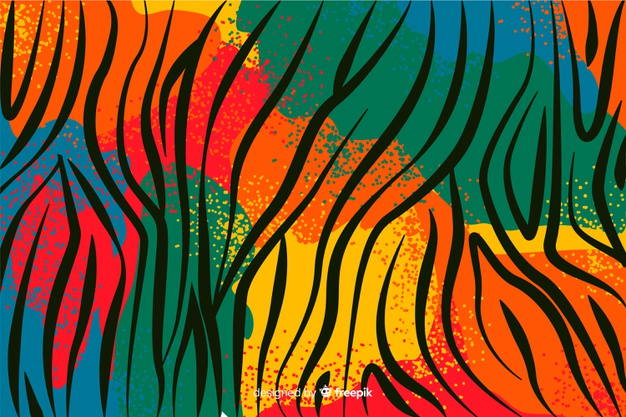
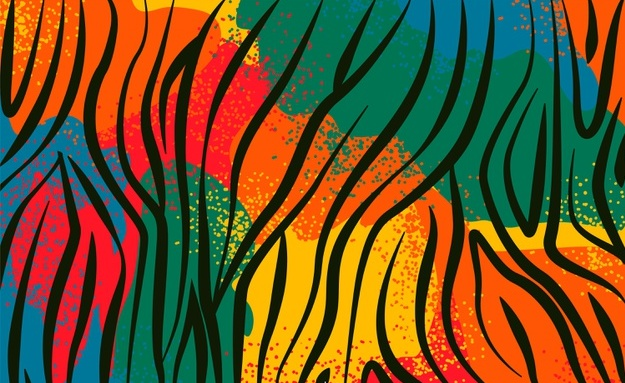
take out trademark from background image, and finalize on fonts and colors, center the timer display

diff --git a/index.html b/index.html
@@ -51,7 +51,7 @@
 		<div class="container">
 	<!--Where start game button begins-->
 	   <div class="container-start">
-			 <button type="button"  onclick="startGame()" class="btn btn-primary" id="start-btn"><strong>Start Game</strong></button>
+			 <button type="button"  onclick="startGame()" class="btn btn-custom" id="start-btn"><strong>Start Game</strong></button>
 		 </div>
 		 <br>
 		 <br>
@@ -60,19 +60,17 @@
 			<div class="container-timer">
 				<div class="row">
 					<div class="col-md-7">
-					 <div class="panel panel-custom" id="main-timer-Panel">
+					 <div class="panel panel-custom" id="main-timer-panel">
 						 <div class="panel-heading" id="timer-panel"><strong>Timer</strong></div>
 							 <div class="panel-body">
 							   <div id="timer">
 									 <br>
-									 <br>
+								&nbsp;&nbsp;&nbsp;&nbsp;&nbsp;&nbsp;&nbsp;&nbsp;&nbsp;&nbsp;&nbsp;&nbsp;&nbsp;&nbsp;&nbsp;&nbsp;&nbsp;&nbsp;&nbsp;
 									 <span id="minutes"><strong>00</strong></span> : <span id="seconds"><strong>00</strong></span>
-									 <br>
-									 <br>
 							   </div>
-								<br>
+							 </div>
 						 </div>
-						 </div>
+
 				 </div>
 			</div>
 	<!--Where timer code ends-->
@@ -90,11 +88,9 @@
 		<!--Word Displayer-->
 	          	<div class="card">
                 <div class="card-body" id="word-display">
-									<br>
 									<br><strong>
                  Where a  word generated should be displayed.
 							 </strong> <br>
-								 <br>
                 </div>
               </div>
              </div>
@@ -109,7 +105,7 @@
 			<div class= "row">
 	  <!--Where code for wrong button begins-->
 				<div class= "col-md-3">
-					<button type="button"  onclick="" class="btn btn-warning" id="wrong-button"><i class="fas fa-times fa-9x"></i></button>
+					<button type="button"  onclick="" class="btn btn-custom" id="wrong-button"><i class="fas fa-times fa-9x"></i></button>
 				</div>
 		<!--Where code for wrong button ends-->
 	<!--Where code for score display div begins-->
@@ -119,10 +115,10 @@
  			        <div class="panel-body">
 								<div class="card">
 									<div class="card-body" id="score-board">
-								<span>
+								<span id="score-no">
 									<br>
 									<br><strong>
-									Where the score is displayed
+									00
 								</strong><br>
 							  <br>
 							  </span>
@@ -134,13 +130,13 @@
 	 <!--Where code for score display ends-->
   <!--Where code for right button begins-->
 				<div class= "col-md-3">
-					<button type="button"  onclick="" class="btn btn-success" id="correct-button"><i class="fas fa-check fa-7x"></i></button>
+					<button type="button"  onclick="" class="btn btn-custom" id="correct-button"><i class="fas fa-check fa-8x"></i></button>
 				</div>
 	<!--Where code for right button ends-->
 			</div>
 		</div>
 <!--Where Code for ScoreBoard and features Ends-->
-   <button type="button"  onclick="" class="btn btn-primary" id="reset-btn">Reset</button>
+   <button type="button"  onclick="" class="btn btn-primary" id="reset-btn"><strong>Reset</strong></button>
 
 <!--Where Timer Code Ends-->
  </div>

diff --git a/css/styles.css b/css/styles.css
@@ -6,6 +6,10 @@
     box-sizing: border-box;
     font-family: 'Poppins', sans-serif;
 }
+body{
+  background-color: lightcyan;
+
+}
 
 header {
     background-color: #0B745C;
@@ -35,6 +39,20 @@ header {
     float: right;
     align-items: left;
 }
+#start-btn{
+  background-color: #05769C;
+  height: 50px;
+  width: 140px;
+  color:white;
+
+}
+#reset-btn{
+  background-color: #05769C;
+  height: 50px;
+  width: 140px;
+  margin-left: 87%;
+
+}
 #instructions, #play{
   font-size: 30px;
   margin-right:100%;
@@ -45,11 +63,12 @@ header {
   background-color:#13200B;
   color:white;
   text-align: center;
+  font-size:40px;
 }
 #timer{
   background-color:#13200B;
   color:white;
-  font-size: 30px;
+  font-size: 45px;
 
 
 }
@@ -57,6 +76,10 @@ header {
   background-color:#13200B;
   color:white;
   text-align: center;
+}
+#score-no{
+  font-size:30px;
+  font-weight:bolder;
 }
 #score-heading{
   text-align:center;
@@ -165,27 +188,34 @@ ul {
     #timer-panel{
       text-align:center;
     }
+#main-timer-panel{
+  background-color:#F7BB0E;
+}
 #bonga-word{
   text-align:center;
 }
 #wrong-button{
   margin-left:60%;
-  background-color:red;
+  background-color:#EE4414;
 }
 #correct-button{
-  margin-left:
+  margin-left:;
+  background-color: #0B745C;
 
 }
 .panel-custom{
   background-color: #F7BB0E;
 }
-#start-btn{
-  height: 100px;
-  width: 200px;
-}
+
 #minutes{
   text-align:center;
 }
 #seconds{
   text-align:center;
+}
+.panel-body{
+  background-color: #F7BB0E;
+}
+.panel-heading{
+  background-color: #F7BB0E;
 }
